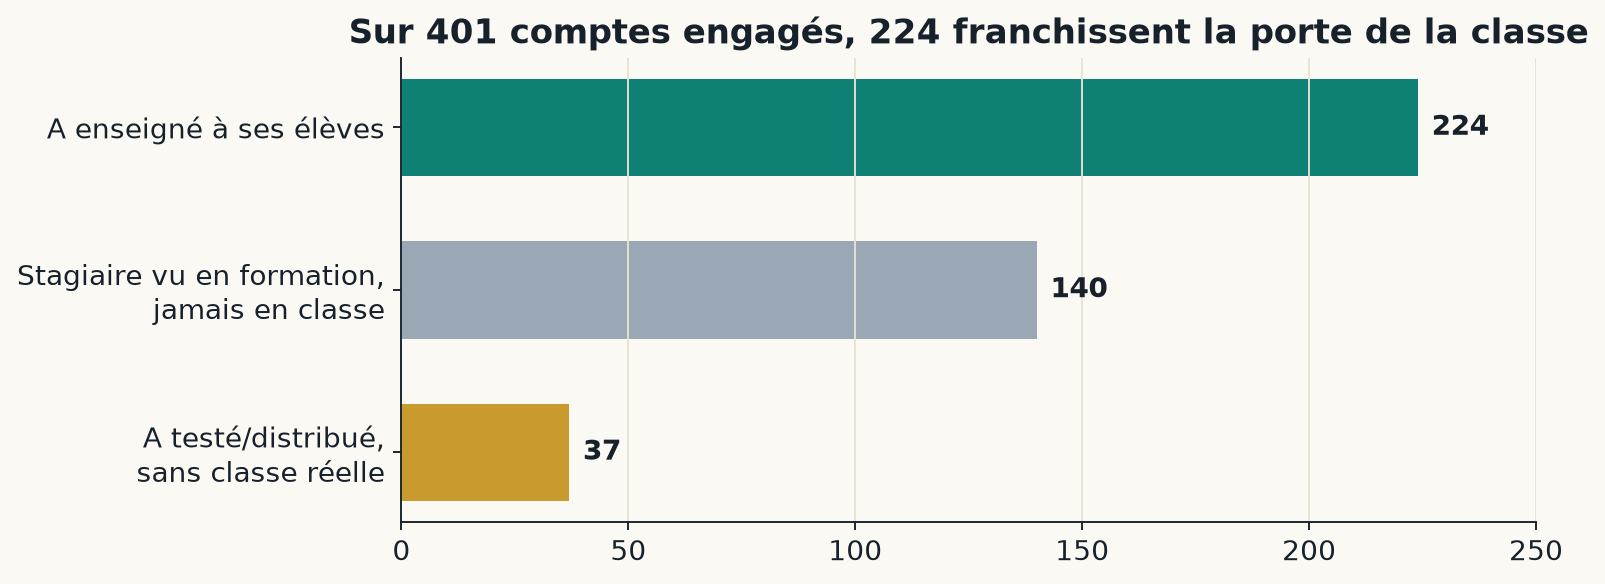
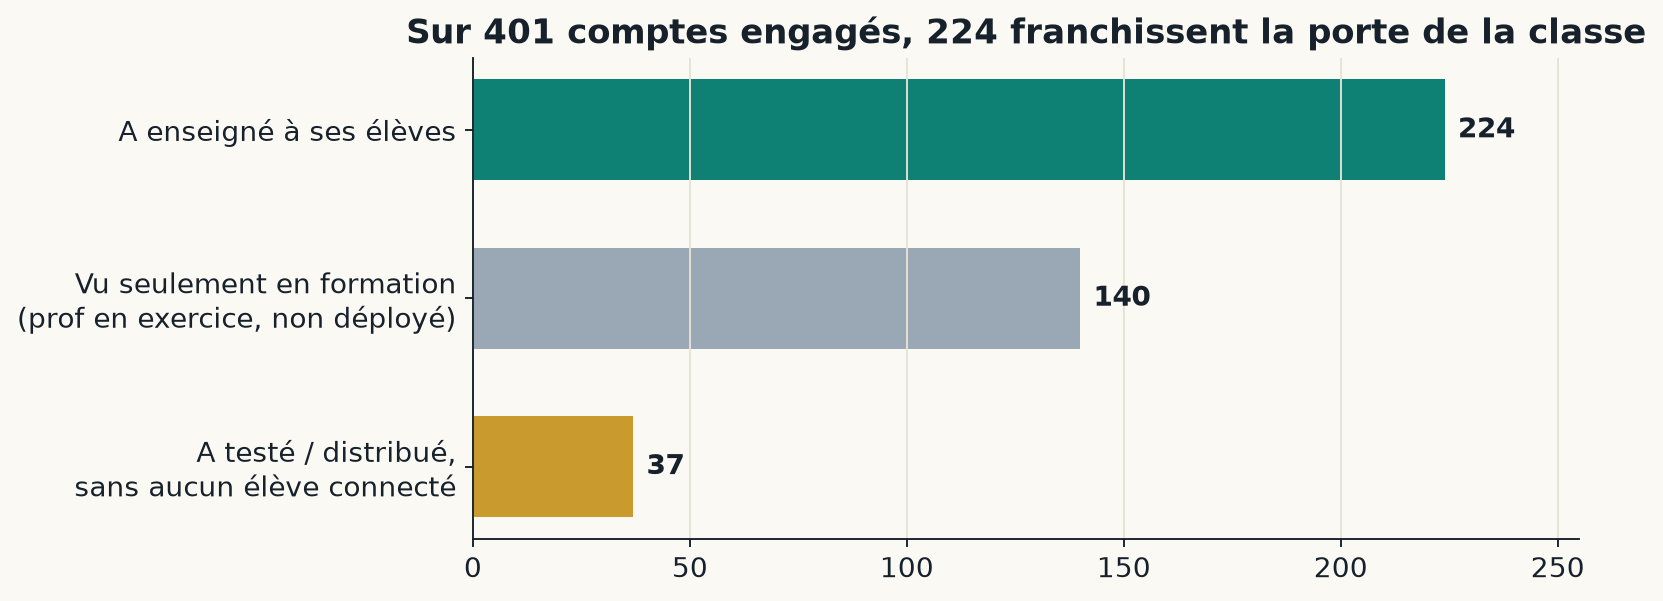
fix: precise prof vocabulary + use Volet 2 (establishment-grain) formation conversion
Two substantive corrections raised on the synthesis:

1. '~4% formation→class' is a Capytale-only (Volet 1) artifact, biased by recency
   and account grain. Replaced everywhere by the Volet 2 establishment-grain measure:
   ~17-30% by type, 46% for mature cohorts, and établissement-ciblée 59% vs mass 10%.
   The take-up is moderate and very uneven, not catastrophic.

2. 'Stagiaire' was a misnomer: the ~140 'seen only in a formation' are overwhelmingly
   IN-SERVICE teachers (formation continue), not trainees. Only the INSPÉ/MEEF/ENS
   pré-service (site-identifiable) genuinely lack a class. Added an explicit vocabulary
   box; defined 'testeur/distributeur' (cloned/distributed, zero pupil connected).

3. Reframed the headline thesis: not 'acquisition is won' — the growth is largely
   ORGANIC/subie (67% SEO, 44% Capytale-direct), and the deliberate lever (formation)
   converts unevenly. The stake is CONVERSION at three gates: formation→class,
   class→return, shallow→deep. Synthesis hero/strip/§I/§II rewritten accordingly.

Propagated to: SYNTHESE (md+page), TYPOLOGIE (md+page+who-chart relabeled),
volet1 (md+page). Volet 2 already correct (reserves 'stagiaire' for ENS/MEEF).

diff --git a/enquete_usages_2026/volet1/dashboard.html b/enquete_usages_2026/volet1/dashboard.html
@@ -232,7 +232,7 @@
       <div class="fstep warn"><div class="fv">177</div><div class="fk">ont <b>seulement testé</b>, sans jamais enseigner — <b>44 %</b> (dont 140 en formation)</div></div>
     </div>
   </div>
-  <div class="callout"><b>La formation : gros haut d'entonnoir, faible rendement.</b> Sur ~148 comptes passés par une formation, seuls <b>6 (~4 %) ont ensuite enseigné</b> à leurs propres élèves. C'est aussi là que se cache l'intérêt collège : <b>40 des 140 stagiaires</b> sont des profs de collège (§04). Une douzaine de <b>formateurs</b> (dont le lycée des Flandres, Hazebrouck) portent ~39 % des tests.</div>
+  <div class="callout"><b>La formation : gros haut d'entonnoir, conversion à mesurer au bon grain.</b> Côté Capytale, 6 comptes formés sur ~148 (~4 %) ont ensuite enseigné — mais ⚠️ ce taux est <b>trompeusement bas</b> (récence des formations, grain compte anonyme). La mesure de référence est au <b>grain établissement (<a href="volet2.html">Volet 2</a>)</b> : ~17-30 % selon le type, <b>46 % pour les cohortes mûres</b>, et surtout <b>établissement-ciblée 59 % vs masse 10 %</b>. ⚠️ « Stagiaires » est ici un raccourci : les <b>140 vus seulement en formation</b> sont en quasi-totalité des <b>profs en exercice</b> (formation continue), pas des pré-service (seuls les INSPÉ/MEEF le sont, repérables côté site). 40 d'entre eux sont en collège (§04).</div>
   <p class="sub" style="margin-top:24px">Côté <b>profs qui enseignent</b> : les deux tiers donnent l'activité <b>sans test préalable</b> ; quand le test a lieu, c'est une mise en place de séance (médiane <b>2,3 jours</b>, 38 % le jour même).</p>
   <div class="grid2">
     <div class="card">
@@ -403,7 +403,7 @@
     <div class="rec"><div><b>Faire de la rétention la priorité.</b><span>Le point faible n'est pas l'acquisition mais le retour : relancer dès la rentrée les 62 profs de 2024-25 qui n'ont pas réenseigné.</span></div></div>
     <div class="rec"><div><b>Activer la contagion intra-établissement.</b><span>80 % des établissements n'ont qu'un prof. Outiller le pionnier pour embarquer un collègue (Bègles et Calais prouvent que ça marche).</span></div></div>
     <div class="rec"><div><b>Récupérer les profs « Capytale-direct ».</b><span>Un tiers entrent par « Intro à l'IA » et 63 ne voient jamais le catalogue : un bandeau « Découvrez mathadata.fr » dans l'activité historique = trafic gratuit à convertir.</span></div></div>
-    <div class="rec"><div><b>Convertir le vivier de la formation (angle mort n°1).</b><span>140 profs formés n'ont jamais enseigné à leurs élèves (conversion ~4 %), dont 40 en collège. Relance systématique post-formation « passez à votre 1ère classe » (kit + support à J+15).</span></div></div>
+    <div class="rec"><div><b>Convertir le vivier de la formation (angle mort n°1).</b><span>≈140 profs <b>en exercice</b> formés n'ont pas (encore) déployé — un réservoir à activer (dont 40 en collège). La conversion réelle (grain établissement, Volet 2) est de ~17-30 %, bien meilleure en formation ciblée (59 %). Relance post-formation « passez à votre 1ère classe » (kit + support), surtout vers les établissements formés en groupe.</span></div></div>
     <div class="rec"><div><b>Concentrer l'accompagnement sur janvier-juin.</b><span>~80 % de l'activité s'y joue, avec un pic en mai à préparer.</span></div></div>
     <div class="rec"><div><b>Développer des ressources collège</b><span>Réelle attente collège, mais sans contenu dédié les profs ne peuvent passer à l'enseignement.</span></div></div>
   </div>
@@ -413,7 +413,7 @@
 <footer>
   <div style="font-size:14px;color:var(--text)">📄 <b>Rapport détaillé (Markdown)</b> : <a href="https://github.com/akimx98/mathadata-dashboard-next/blob/main/enquete_usages_2026/volet1/RAPPORT_ENQUETE_USAGES.md" style="color:var(--accent)">RAPPORT_ENQUETE_USAGES.md</a> — l'analyse complète, méthode et études de cas. · ★ <a href="synthese.html" style="color:var(--accent)">Synthèse finale</a> · <a href="index.html" style="color:var(--accent)">accueil</a></div>
   <div style="margin-top:10px"><b>Source</b> · API statistique Capytale (<span style="color:var(--text)">capytale_fresh_20260619.csv</span>, 7 353 lignes) croisée à l'annuaire de 12 455 établissements.</div>
-  <div class="note">Modèle de comptes : <span class="mono">role</span> = type de compte (un prof en formation reste « teacher », dans la colonne élève des lignes test) → population enseignante = 401 engagés (261 distributeurs + 140 stagiaires). <span class="mono">role=student</span> = vrais élèves (5 854, non contaminés). KPI élèves/croissance/géo vérifiés par 3 recomputations indépendantes. Un usage = 1 affectation clonée (≠ un élève, ≠ une séance). Séances = reconstruction (~600-740 ; médiane de classe 17, invariante). 2025-2026 incomplète au 19 juin : croissance = plancher. Compte de démo (195 lignes) exclu ; hub fondateur (404 élèves sur 14 établissements) signalé. Identifiants pseudonymisés — aucune ré-identification. MàJ 20 juin 2026.</div>
+  <div class="note">Modèle de comptes : <span class="mono">role</span> = type de compte (un prof en formation reste « teacher », dans la colonne élève des lignes test) → population enseignante = 401 engagés (261 distributeurs + 140 vus seulement en formation — des profs en exercice, non « stagiaires »). <span class="mono">role=student</span> = vrais élèves (5 854, non contaminés). KPI élèves/croissance/géo vérifiés par 3 recomputations indépendantes. Un usage = 1 affectation clonée (≠ un élève, ≠ une séance). Séances = reconstruction (~600-740 ; médiane de classe 17, invariante). 2025-2026 incomplète au 19 juin : croissance = plancher. Compte de démo (195 lignes) exclu ; hub fondateur (404 élèves sur 14 établissements) signalé. Identifiants pseudonymisés — aucune ré-identification. MàJ 20 juin 2026.</div>
 </footer>
 </div>
 

diff --git a/enquete_usages_2026/commons/SYNTHESE_FINALE_2026.md b/enquete_usages_2026/commons/SYNTHESE_FINALE_2026.md
@@ -8,33 +8,45 @@
 
 ## La thèse en un paragraphe
 
-En trois ans, MathAData a **gagné la bataille de l'acquisition** et **pas encore celle de la durée ni de la profondeur**. La croissance est spectaculaire (+105 % d'usages en un an) mais d'une nature précise : elle repose sur un **flux de nouveaux entrants** qui, en majorité, font un usage **unique, court, superficiel et de fin d'année**, puis ne reviennent pas. Le déploiement 2026-2027 ne se joue donc **pas** sur « attirer plus » — la machine à recruter fonctionne remarquablement — mais sur **« faire revenir » et « faire approfondir »**. Et le résultat le plus actionnable de cette enquête est que **ce sont les mêmes gestes** : les comportements de profondeur de la première année (une 2ᵉ activité, une vraie séance de 45 min en salle info, une 2ᵉ séance) sont aussi les meilleurs **prédicteurs du retour** l'année suivante. Les deux objectifs du pilote — plus de profs *et* un meilleur mode d'usage — convergent sur un seul levier : **installer la dose dès les premières semaines**.
+En trois ans, MathAData a conquis la **notoriété** et **prouvé qu'il s'utilise en vraie classe** (24 académies, +105 % d'usages en un an, de vrais déploiements). Ce qui n'est **pas** gagné, c'est la **conversion** — et la croissance actuelle est davantage **subie que pilotée**. Subie, parce que l'essentiel des nouveaux profs arrivent par **découverte spontanée** (référencement, bouche-à-oreille Capytale : 44 % des établissements à usage n'ont aucun compte site), tandis que le principal levier *volontaire*, la **formation**, ne débouche en classe que de façon **très inégale** : **59 % des établissements** quand elle est *établissement-ciblée*, mais **10 % seulement** quand elle ratisse des individus dispersés (Volet 2, grain établissement). Mal convertie ensuite, parce que parmi ceux qui atteignent la classe, **seuls ~31 % reviennent** l'année suivante et **une minorité approfondit**. Le déploiement 2026-2027 se joue donc moins sur « faire connaître » — en bonne voie — que sur **faire franchir trois conversions successives** : de la **formation à la classe**, de la **première classe au retour**, de l'**essai à l'usage profond**. Et les deux dernières, on le verra, tiennent au **même geste de la première année** (une 2ᵉ activité, une vraie séance de 45 min) : viser la profondeur sert *aussi* la durée.
 
 ---
 
-## I. Une croissance par acquisition, pas par accumulation
+## I. Une croissance réelle, mais subie et fragile
 
-L'année 2025-2026 a **plus que doublé** le volume de la précédente (2 181 → 4 479 usages élèves, année non finie). Mais la mécanique de cette croissance est singulière, et fragile.
+L'année 2025-2026 a **plus que doublé** le volume de la précédente (2 181 → 4 479 usages élèves, année non finie). Mais deux caractéristiques en font une croissance fragile.
 
-**La base se renouvelle plus qu'elle ne s'accumule.** Sur les 151 profs qui ont enseigné en 2025-2026, **123 (81,5 %) sont entièrement nouveaux**, et ils génèrent **74 % du volume** de l'année. L'effet net des profs déjà présents est **quasi nul** : les 26 récurrents ont fait 1 065 élèves en 24-25 contre 1 062 en 25-26. Autrement dit, chaque rentrée n'**ajoute** pas une couche sur la précédente — elle la **remplace**. Le noyau dur — profs présents les trois années — se compte sur les **doigts d'une main (4)**.
+**Elle est largement organique, pas pilotée.** L'acquisition des comptes site vient à **66,7 % du référencement** (Google en tête) ; l'emailing (Brevo, 6,1 %) entretient mais ne recrute pas. Surtout, **44 % des établissements à usage classe n'ont aucun compte site** : ils sont entrés directement par le catalogue Capytale, sans passer par mathadata.fr. Le dispositif **bénéficie d'un afflux spontané** plus qu'il ne maîtrise son recrutement de déployeurs — et son levier délibéré, la formation, convertit mal (§II).
 
-**La rétention est le point de fuite, pas l'acquisition.** D'une année sur l'autre, seuls **~31 %** des professeurs reviennent enseigner (mesuré proprement sur les 101 profs qui *pouvaient* revenir, c.-à-d. entrés avant 2025-2026 ; les entrants de cette année ne sont pas encore observables). Les trois rapports convergent (30 % Volet 1, 29,5 % Volet 2, 31 % Typologie). Deux profs sur trois décrochent.
+**La base se renouvelle plus qu'elle ne s'accumule.** Sur les 151 profs qui ont enseigné en 2025-2026, **123 (81,5 %) sont entièrement nouveaux**, et ils génèrent **74 % du volume** de l'année. L'effet net des profs déjà présents est **quasi nul** : les 26 récurrents ont fait 1 065 élèves en 24-25 contre 1 062 en 25-26. Chaque rentrée n'**ajoute** pas une couche — elle **remplace** la précédente. Le noyau présent les trois années se compte sur les **doigts d'une main (4)**. D'une année sur l'autre, **~31 %** des profs reviennent (mesuré sur les 101 qui *pouvaient* revenir ; les trois rapports convergent : 30 / 29,5 / 31 %).
 
-**Le seul vrai changement de fond entre les vagues est encourageant.** À stade comparable (première année d'usage), les trois cohortes 2023→2024→2025 sont **comportementalement identiques** (médiane 2 séances, ~45 % de one-shot). Une seule chose dérive nettement : la part des entrants qui atteignent **une classe entière dès leur première année** passe de **5 % → 44 % → 57 %**. L'outil n'entre plus par un test timide ; il entre de plus en plus **directement en vraie classe**. C'est le signe que MathAData a réussi sa mue — de « gadget IA » (l'activité historique recule de −485 usages) vers un **outil arrimé au programme de 2nde** (statistiques +1 340, géométrie +1 236).
+**Un seul vrai changement de fond, encourageant.** À stade comparable (première année), les trois vagues 2023→2024→2025 sont **comportementalement identiques** (médiane 2 séances, ~45 % de one-shot). Une seule chose dérive : la part des entrants atteignant **une classe entière dès l'an 1** passe de **5 % → 44 % → 57 %**. MathAData réussit sa mue — de « gadget IA » (l'activité historique recule de −485 usages) vers un **outil arrimé au programme de 2nde** (statistiques +1 340, géométrie +1 236).
 
-> **Mécanisme.** On a construit une excellente machine à *recruter* et à *faire entrer en classe*. On n'a pas (encore) construit la machine à *faire revenir*. Tant que la seconde n'existe pas, le volume restera proportionnel au seul effort d'acquisition de l'année — un château bâti sur du sable qu'il faut re-verser chaque rentrée.
+> **Mécanisme.** Ce qui fonctionne remarquablement, c'est la **notoriété** et la **découverte spontanée**. Ce qui ne fonctionne pas (encore), c'est le **recrutement piloté** (la formation, qui convertit mal) et la **fidélisation** (31 %). Tant que ces conversions ne s'améliorent pas, le volume restera proportionnel à l'afflux spontané de chaque rentrée — un château qu'il faut re-verser chaque année.
 
 ---
 
-## II. Deux goulots — et le second est le vrai problème
+## II. Trois conversions, et un vocabulaire à préciser
 
-L'intuition naturelle est que le défi est de « faire passer les profs à la classe ». Les données disent le contraire : pour un vrai enseignant, atteindre la classe n'est **pas** le goulot.
+Avant de parler des goulots, fixons les **mots** — car une part de la confusion vient du vocabulaire.
 
-**Goulot 1 — atteindre la classe : déjà franchi par presque tous les vrais profs.** Sur 401 comptes engagés, 224 (56 %) ont enseigné à leurs élèves. Mais les 177 qui n'y arrivent pas sont **à 79 % des stagiaires vus seulement en formation** (140) ou des testeurs sans classe (37). Une fois retirés les stagiaires, **86 % des vrais enseignants atteignent une classe**. Le « filtre » d'avant-classe est donc **quasi définitionnel** (être ou non en responsabilité de classe), pas un problème d'outil. Le type d'établissement ne discrimine rien une fois les stagiaires retirés (lycée 87 % vs collège 83 %).
+> **Vocabulaire des profils (côté Capytale, l'usage réel).**
+> - **Engagé** : a mis la main sur l'outil (cloné/testé ou enseigné). *401 comptes.*
+> - **A enseigné** : a donné l'activité à **ses propres élèves** (vraies lignes élèves). *224.*
+> - **Vu seulement en formation** : apparaît uniquement comme clone créé **pendant une séance de formation** (le formateur distribue, le prof clone pour suivre), sans jamais déployer à ses élèves. *≈140.* ⚠️ **Ce sont, en quasi-totalité, des profs EN EXERCICE** ayant suivi une **formation continue** — *pas* des « stagiaires ». La seule exception, le **pré-service** (étudiants INSPÉ / master MEEF / ENS), n'est identifiable que par les **libellés de formation côté site** (et l'appariement site↔Capytale est ténu) ; elle reste minoritaire.
+> - **Testeur / distributeur** : a **cloné ou distribué** une activité (généré un code de partage, ou ouvert l'activité en mode prof) **sans qu'aucun élève ne s'y connecte**. *≈37.*
 
-**Goulot 2 — revenir : c'est ici que tout se perd.** Et c'est un goulot d'un genre particulier, illustré par le **paradoxe du déployeur** : les 105 « déployeurs classe entière » — le gros du peloton — atteignent une vraie classe à un taux proche des pionniers (44 % d'entre eux dépassent 20 élèves dès l'an 1), **et pourtant 0 sur 41** (parmi les éligibles) ne reviennent l'année suivante. **Atteindre une vraie classe ne garantit pas de revenir.**
+Avec ce vocabulaire, le parcours fuit à **deux conversions** distinctes — qu'il ne faut pas confondre.
 
-> **Mécanisme.** Les deux échecs sont **distincts** : réussir le premier contact (un déploiement classe entière) et réussir le réengagement (revenir l'an d'après) sont deux compétences séparées. La majorité réussit le premier et rate le second. **Tout l'effort [phone redacted] doit viser le réengagement N+1, pas l'acquisition (saturée) ni le premier contact (acquis).**
+**Conversion 1 — de la formation à la classe : modérée et très inégale (pas « 4 % »).** On lit parfois un taux de ~4 % (6 comptes « formés » sur 148 ayant ensuite enseigné). ⚠️ **Ce chiffre vient de la seule analyse Capytale (Volet 1) et est trompeusement bas** : biaisé par la **récence** des formations et par le **grain compte** (un changement de compte ENT efface la continuité). La mesure pertinente est celle du **Volet 2, au grain établissement sur l'historique Capytale complet (non biaisée)** : une formation débouche sur une vraie classe dans **30 % des établissements en webinaire, ~17-23 % en présentiel**, et **46 % pour les cohortes mûres** (formées avant déc. 2025 ; jusqu'à **67 %** pour la cohorte présentielle d'octobre 2024, > 18 mois de recul). Surtout, l'aboutissement **dépend de la concentration** : **établissement-ciblée 59 % (13/22 établissements)** vs **académique de masse 10 % (13/126)** — un **facteur ~6** (§VI). Le take-up post-formation n'est donc pas catastrophique ; il est **modéré, mûrit en trimestres, et n'est fort que lorsque la formation est concentrée sur un établissement**.
+
+Les profs « vus seulement en formation » (≈140 côté Capytale) ne sont d'ailleurs **pas** des gens « qui ne peuvent pas avoir de classe » : ce sont, à la minorité pré-service près, des **profs en exercice** — un **réservoir à activer**, pas un filtre. Côté site, le Volet 2 le confirme : **509 établissements** ont un compte mais aucune empreinte classe, dont **75 % datés de 2026** (en *sursis* de déploiement, pas abandonnés) — et **~148** ont même déjà cliqué vers Capytale sans classe retrouvée.
+
+> **Contraste éclairant.** Les profs qui découvrent MathAData **sans** passer par une formation (découverte spontanée, Capytale-direct) déploient, eux, très majoritairement. Atteindre la classe n'est donc pas difficile *en soi* — le maillon faible est précisément la **conversion post-formation**, surtout après une formation de masse.
+
+**Conversion 2 — de la première classe au retour : 31 %, illustrée par le paradoxe du déployeur.** Les 105 « déployeurs classe entière » — le gros du peloton — atteignent une vraie classe presque autant que les pionniers (44 % dépassent 20 élèves dès l'an 1), **et pourtant 0 sur 41** (éligibles) ne reviennent. **Atteindre une vraie classe ne garantit pas de revenir** : le premier contact et le réengagement sont deux compétences séparées.
+
+> **Mécanisme.** Trois conversions, trois chantiers : (1) **activer le réservoir formé** (≈140 profs en exercice non déployés) — surtout en basculant vers la formation *concentrée* ; (2) **faire revenir** (31 %) ; (3) **faire approfondir** (§III). L'acquisition de **notoriété** est acquise ; la **conversion**, à chacun de ces étages, est le vrai travail de 2026-2027.
 
 ---
 
@@ -104,7 +116,7 @@ Les ~10 profs qui font de vrais dédoublements sont des **pionniers**, dans des 
 Trois leviers qu'on crédite spontanément de l'usage durable. Les données obligent à les **requalifier** : ils agissent sur l'**amorçage** (faire basculer un établissement en usage), pas sur la **durabilité** individuelle.
 
 **La formation est un haut d'entonnoir puissant… à faible rendement, et non causal sur la durée.**
-- Elle remplit massivement le haut : 631 comptes formés. Mais **sur 148 comptes vus en formation, ~6 (4 %) ont ensuite enseigné** à leurs élèves. C'est *le* point de fuite.
+- Elle remplit massivement le haut : 631 comptes formés. Mais le **passage en classe est modéré et très inégal** — et il faut le mesurer au **grain établissement (Volet 2)**, pas par le taux Capytale brut de ~4 % (biaisé par la récence et le grain compte). Établissements formés débouchant sur une vraie classe : **webinaire ~30 %, présentiel ~17-23 %, cohortes mûres 46 %** (jusqu'à 67 %).
 - Ce qui distingue les formations qui aboutissent, ce n'est **pas le format** (présentiel vs webinaire) mais la **concentration** : une formation **établissement-ciblée** (plusieurs collègues d'un même lieu) fait basculer **59 % des établissements** vs **10 %** pour une journée académique de masse (1 prof dispersé) — un **facteur ~6**, alors que les deux sont du présentiel.
 - Mais — mise en cohérence essentielle (cf. [Typologie](TYPOLOGIE_PROFILS_2026.md) §III) — la formation **ne fabrique pas de profs qui reviennent** : l'écart de rétention formés/non-formés (54 % vs 27 %) est un **artefact de composition** (les établissements formés contiennent déjà plus de pionniers ; à profil égal, aucun gain). S'ajoute l'**endogénéité** (9 des 26 établissements présentiels à usage utilisaient déjà Capytale *avant* la formation) et le **pré-service** (ENS/MEEF, 20 % de l'effort présentiel, **0 % d'usage par construction** — sans classe).
 

diff --git a/enquete_usages_2026/commons/TYPOLOGIE_PROFILS_2026.md b/enquete_usages_2026/commons/TYPOLOGIE_PROFILS_2026.md
@@ -13,7 +13,7 @@
 
 ## Les deux réponses, en bref
 
-**Qui atteint la classe ?** — Il n'existe **aucun prédicteur propre** : franchir la porte de la classe est verrouillé par un fait quasi définitionnel (être ou non « stagiaire »). 224 des 401 comptes engagés (56 %) enseignent. Parmi les vrais enseignants (non-stagiaires), **86 % atteignent une classe** ; le filtre est en amont, à la frontière stagiaire/testeur. L'écart apparent lycée (78 %) vs collège (13 %) est un artefact : les collèges sont à 87 % des stagiaires.
+**Qui atteint la classe ?** — 224 des 401 comptes engagés (56 %) enseignent. Atteindre la classe n'est pas dur **en soi** : les profs qui découvrent l'outil **seuls** (sans formation) déploient très majoritairement. Le vrai maillon faible est la **conversion post-formation** : modérée et très inégale (mesurée au grain établissement, [Volet 2](../volet2/RAPPORT_VOLET2.md) : ~17-30 % selon le type, **établissement-ciblée 59 % vs masse 10 %**). ⚠️ Les ~140 profs « vus seulement en formation » sont des **profs en exercice** à activer (un réservoir), *pas* des « stagiaires » sans classe (seule la minorité pré-service INSPÉ/MEEF l'est).
 
 **Pourquoi la plupart ne reviennent-ils pas ?** — Sur 101 enseignants ayant *pu* revenir, **31 % reviennent** l'année suivante. La cause n'est pas le profil (le lien profil→retour est tautologique) mais la **dose de la première année**. Le cœur du problème est le **paradoxe du déployeur** : les déployeurs atteignent une vraie classe — le signal même qui prédit le retour — et pourtant **0 sur 41 reviennent**. La perte n'est pas au premier contact, elle est à la **réengagement d'une année sur l'autre**.
 
@@ -51,16 +51,16 @@ Le clustering sépare nettement les 224 enseignants en cinq archétypes, sur les
 
 ## II. Qui atteint la classe ?
 
-Sur 401 comptes engagés : 224 ont enseigné, 140 sont des stagiaires vus seulement en formation, 37 ont testé/distribué sans classe réelle.
+Sur 401 comptes engagés (côté Capytale) : **224 ont enseigné**, **≈140 ne sont vus qu'en formation** (clones créés pendant une séance, jamais déployés), **≈37 ont testé/distribué** une activité sans qu'aucun élève ne s'y connecte.
 
-Le résultat est austère : **il n'y a pas de discriminant propre**. La frontière est définitionnelle.
-- Les **stagiaires ne franchissent presque jamais** le pas : 4 % seulement (6/148) atteignent leur propre classe.
-- L'auto-test n'est **pas** une porte d'entrée : 34 des 37 testeurs/distributeurs ont auto-testé et touché zéro élève.
-- Le type d'établissement ne discrimine **pas**, une fois les stagiaires retirés : parmi les non-stagiaires, lycée 87 % vs collège 83 % (n=6, indicatif), p=0,36. L'écart brut lycée/collège n'est qu'un reflet du fait que les collèges sont à 87 % des stagiaires.
+> **⚠️ Vocabulaire — pas des « stagiaires ».** Les ≈140 « vus seulement en formation » sont, en quasi-totalité, des **profs en exercice** ayant suivi une **formation continue** — *pas* des stagiaires/pré-service. La seule exception, le pré-service (INSPÉ/MEEF/ENS), n'est repérable que par les **libellés de formation côté site** (Volet 2), pas côté Capytale, et reste minoritaire.
 
-Côté amont, seuls **~27,5 % des comptes site traçables** atteignent un jour Capytale (proxy de la vraie classe) — le détail est dans le volet 2.
+Le constat utile n'est donc pas « il y a un filtre définitionnel », mais :
+- **Les profs qui découvrent l'outil seuls** (sans formation : Capytale-direct, organique) **déploient très majoritairement** — atteindre la classe n'est pas dur en soi.
+- **Le maillon faible est la conversion post-formation.** Le taux Capytale brut (6/148 ≈ 4 %) est **trompeusement bas** (récence des formations, grain compte) ; la mesure pertinente est au **grain établissement (Volet 2)** : ~17-30 % selon le type, **46 % pour les cohortes mûres**, et surtout **établissement-ciblée 59 % vs masse 10 %**. Les ≈140 non-déployés sont donc un **réservoir de profs en exercice à activer**, pas des gens « qui ne peuvent pas ».
+- Le type d'établissement ne discrimine **pas** une fois ce public de formation mis à part (lycée 87 % vs collège 83 %, n=6 indicatif) : l'écart brut lycée/collège reflète seulement que les comptes collège passent surtout par la formation (cf. Volet 2 §8).
 
-**Conclusion honnête** : parmi les gens qui sont de vrais enseignants (pas des stagiaires), presque tous (86 %) atteignent une classe. Le goulot est en amont, et il est définitionnel ; il ne faut pas l'habiller en « effet établissement ».
+**Conclusion honnête** : « atteindre la classe » n'est pas un problème pour les profs qui arrivent par découverte spontanée ; c'en est un, réel, pour ceux recrutés par une **formation de masse** — et c'est une conversion à travailler (Volet 2), pas une fatalité.
 
 ---
 
@@ -121,7 +121,7 @@ Parmi les 32 pluriannuels : **25/32** ont eu un démarrage modeste (<5 séances 
 4. **La portée, pas le choix d'activité**, explique l'avantage « Statistiques ».
 5. **Timing et dose sont entrelacés** : les one-shot de fin d'année (juin 14 %) sont le moteur clair du décrochage.
 6. **La masse critique locale est un nul confirmé** ; l'avantage de Lille est un **artefact de composition** (plus de pionniers/fidèles), pas un effet de lieu.
-7. **Atteindre la classe est verrouillé par un fait définitionnel** (stagiaire), pas par le type d'établissement.
+7. **Atteindre la classe est facile pour les profs venus seuls** ; le maillon faible est la **conversion post-formation** (réservoir de profs en exercice à activer), pas le type d'établissement.
 
 ---
 

diff --git a/enquete_usages_2026/volet1/RAPPORT_ENQUETE_USAGES.md b/enquete_usages_2026/volet1/RAPPORT_ENQUETE_USAGES.md
@@ -110,9 +110,11 @@ Le point de départ a été corrigé en cours d'enquête (voir §11). Dans Capyt
                  └──  37 distributeurs ayant testé sans jamais enseigner
 ```
 
+> **⚠️ Terminologie : « stagiaire » est un raccourci trompeur.** Dans ce rapport (Capytale seul), « stagiaire » désigne un compte **vu seulement en formation** (clone créé pendant une séance de formation, jamais déployé). Ce sont, **en quasi-totalité, des profs EN EXERCICE** en formation continue — *pas* des stagiaires/pré-service. Seule la minorité **pré-service** (INSPÉ/MEEF/ENS) est un vrai « stagiaire sans classe », et elle n'est identifiable que par les libellés de formation **côté site** (Volet 2). Lire « stagiaire » ci-dessous comme « vu seulement en formation ».
+
 Deux enseignements forts :
 
-- **La formation est un puissant haut d'entonnoir… à faible rendement.** Sur les **148 comptes vus en formation**, seuls **6 (≈ 4 %) ont ensuite enseigné** à leurs propres élèves. La majorité reste « formée mais pas passée à l'acte ». *(À tempérer : beaucoup de formations sont récentes ; le délai de conversion sera mesurable avec le calendrier officiel.)*
+- **La formation est un puissant haut d'entonnoir… à rendement à mesurer au bon grain.** Sur les **148 comptes vus en formation**, seuls **6 (≈ 4 %) ont ensuite enseigné** *côté Capytale*. ⚠️ Ce taux est **trompeusement bas** : il est biaisé par la **récence** des formations et le **grain compte** (anonyme). La mesure de référence est celle du **[Volet 2](../volet2/RAPPORT_VOLET2.md) §3, au grain établissement** (historique complet, non biaisé) : **~17-30 % selon le type**, **46 % pour les cohortes mûres**, et surtout **établissement-ciblée 59 % vs masse 10 %**. La conversion post-formation est donc **modérée et très inégale**, pas catastrophique.
 - **La formation explique l'intérêt collège** : sur les 140 stagiaires, **40 sont en collège**, 27 en lycée, 73 sans établissement renseigné. C'est cohérent avec ce que montre la carte (§1.1) — des profs de collège formés, mais qui n'enseignent pas (encore) à leurs classes.
 
 Ce haut d'entonnoir est animé par une douzaine de **formateurs** identifiables dans la donnée : **`dda7f8a1`** (lycée des Flandres, Hazebrouck — **37 stagiaires** sur 34 établissements), `6a44e026` (28), `2f6f9511` (15, n'enseigne pas lui-même), `cace46c6` (12)… À eux seuls, les formateurs portent **~39 % des lignes de test**. Ce sont les opérateurs des formations — que les données officielles à venir permettront de nommer et dater.